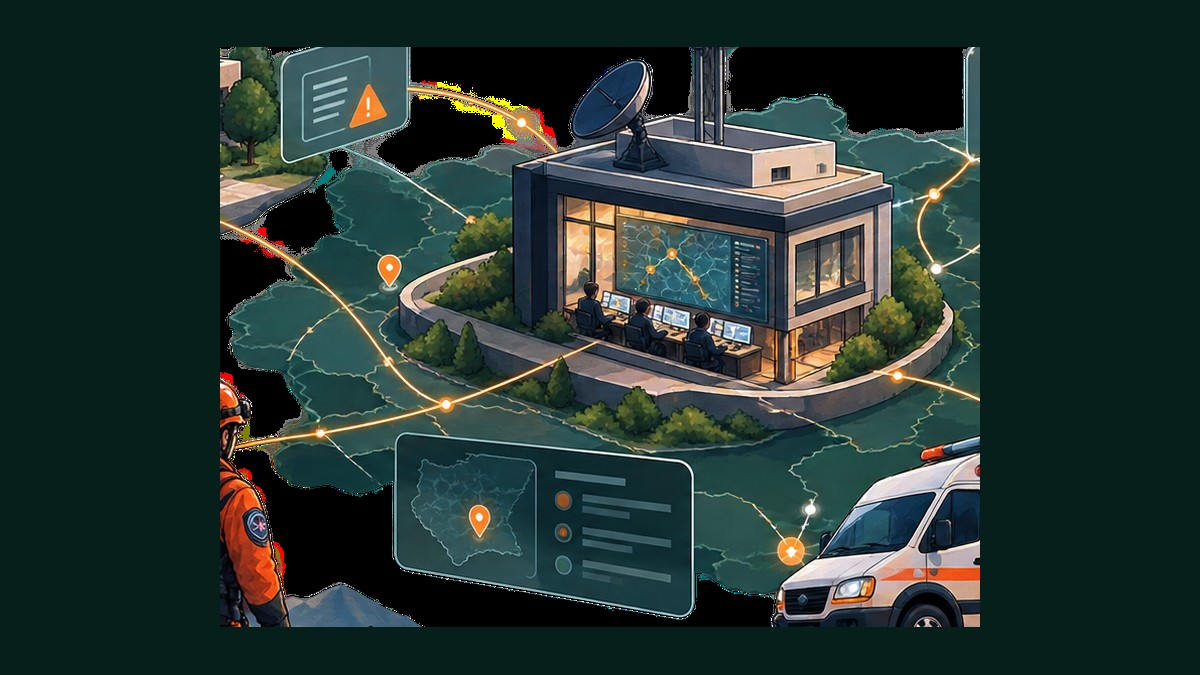
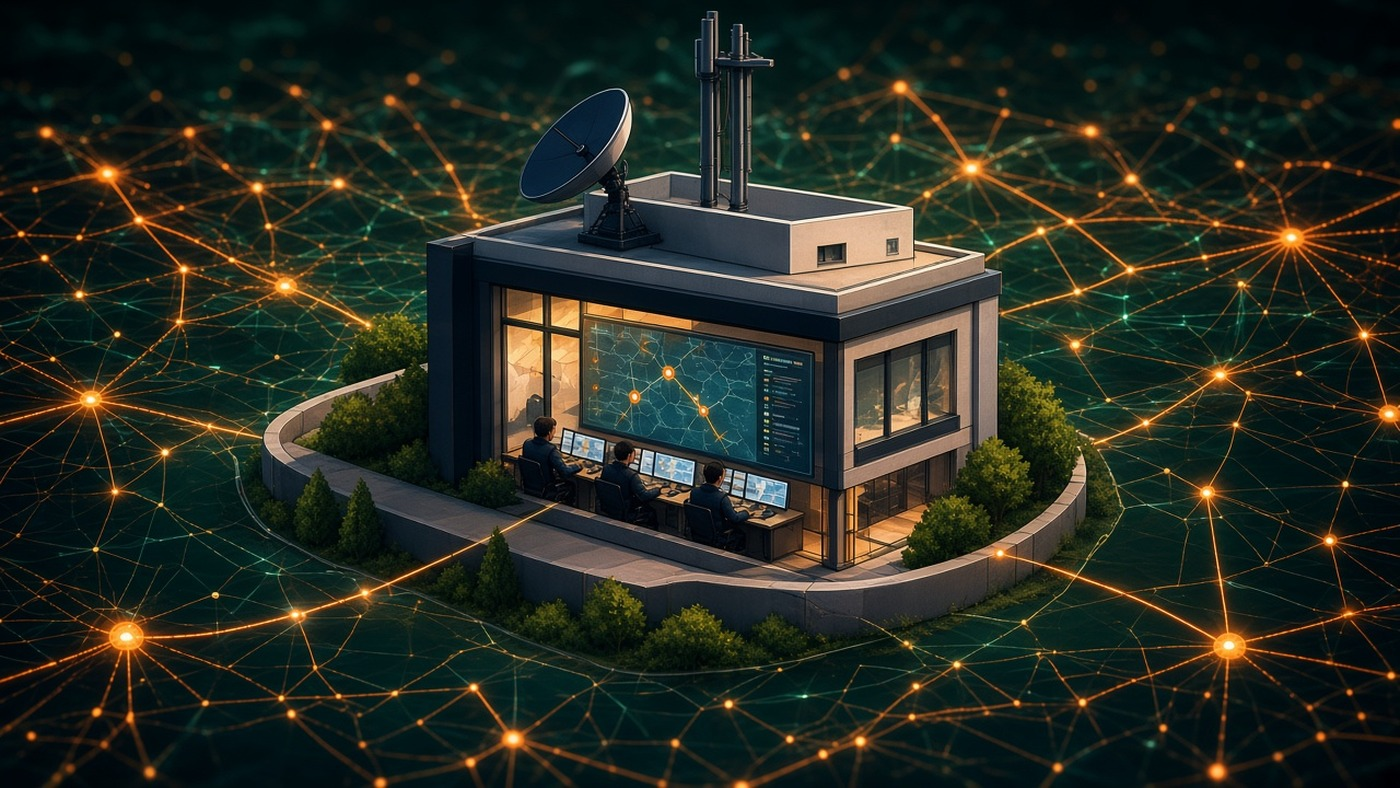
Replace broken scene crops with full-bleed cinematic destinations.
Regenerate municipio, centro, ONG, rescate and ambulancia scenes so journey landings look polished instead of cutout voids.

diff --git a/frontend/src/styles.css b/frontend/src/styles.css
@@ -533,6 +533,9 @@ button, input, select, textarea { font: inherit; }
   pointer-events: none;
   display: block;
 }
+.flow-destination-img {
+  filter: saturate(1.05) contrast(1.03);
+}
 .flow-destination {
   z-index: 2;
 }

diff --git a/frontend/scripts/import_generated_scenes.py b/frontend/scripts/import_generated_scenes.py
@@ -1,0 +1,34 @@
+"""Convert generated cinematic scenes into frontend/public/scenes."""
+from pathlib import Path
+
+from PIL import Image
+
+SRC = Path(r"C:\Users\Franco\.cursor\projects\c-Users-Franco-DSSD\assets")
+OUT = Path(r"c:\Users\Franco\DSSD\frontend\public\scenes")
+TARGET = (1400, 788)  # ~16:9
+
+MAP = {
+    "scene-municipio.png": "municipio.jpg",
+    "scene-centro.png": "centro.jpg",
+    "scene-ong.png": "ong.jpg",
+    "scene-rescate.png": "rescate.jpg",
+    "scene-ambulancia.png": "ambulancia.jpg",
+}
+
+OUT.mkdir(parents=True, exist_ok=True)
+
+for src_name, out_name in MAP.items():
+    im = Image.open(SRC / src_name).convert("RGB")
+    # cover-fit into target
+    tw, th = TARGET
+    scale = max(tw / im.width, th / im.height)
+    nw, nh = int(im.width * scale), int(im.height * scale)
+    im = im.resize((nw, nh), Image.Resampling.LANCZOS)
+    left = (nw - tw) // 2
+    top = (nh - th) // 2
+    im = im.crop((left, top, left + tw, top + th))
+    out = OUT / out_name
+    im.save(out, "JPEG", quality=92, optimize=True)
+    print("wrote", out.name, im.size)
+
+print("done")
